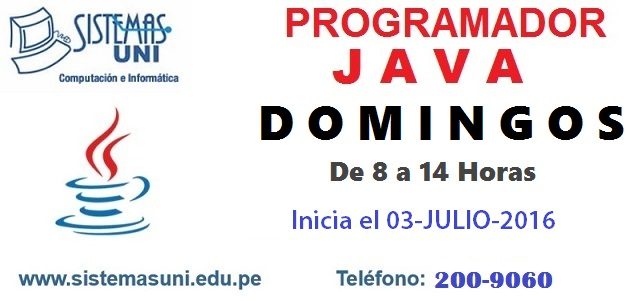
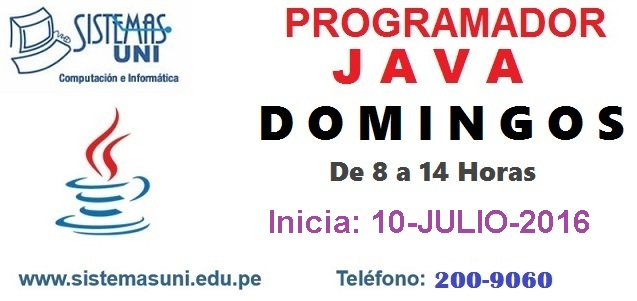
Actualizando el repositorio

Changed region(s): [[0.4176, 0.6877, 0.9246, 0.7774]]

diff --git a/README.md b/README.md
@@ -4,7 +4,7 @@
 
 - Lugar: SistemasUNI
 - Horario: DOMINGO de 8 a 14 Horas
-- Inicio: 03-JULIO-2016
+- Inicio: 10-JULIO-2016
 - Dirección: https://goo.gl/maps/98vwAt9NZMU2
 - Programa: http://www.sistemasuni.edu.pe/dmodulos/JavaveloperCC.html
 - Contenido: http://www.sistemasuni.edu.pe/dcursos/cursoPjava.html
@@ -53,7 +53,24 @@
 
 # CLASE 01
 
-- Fecha: 03-JULIO-2016
+- Fecha: 10-JULIO-2016
+
+
+# CLASE 02
+
+- Fecha: 17-JULIO-2016
+
+
+# CLASE 03
+
+- Fecha: 31-JULIO-2016
+
+
+
+# CLASE 04
+
+- Fecha: 07-AGOSTO-2016
+
 
 
 
